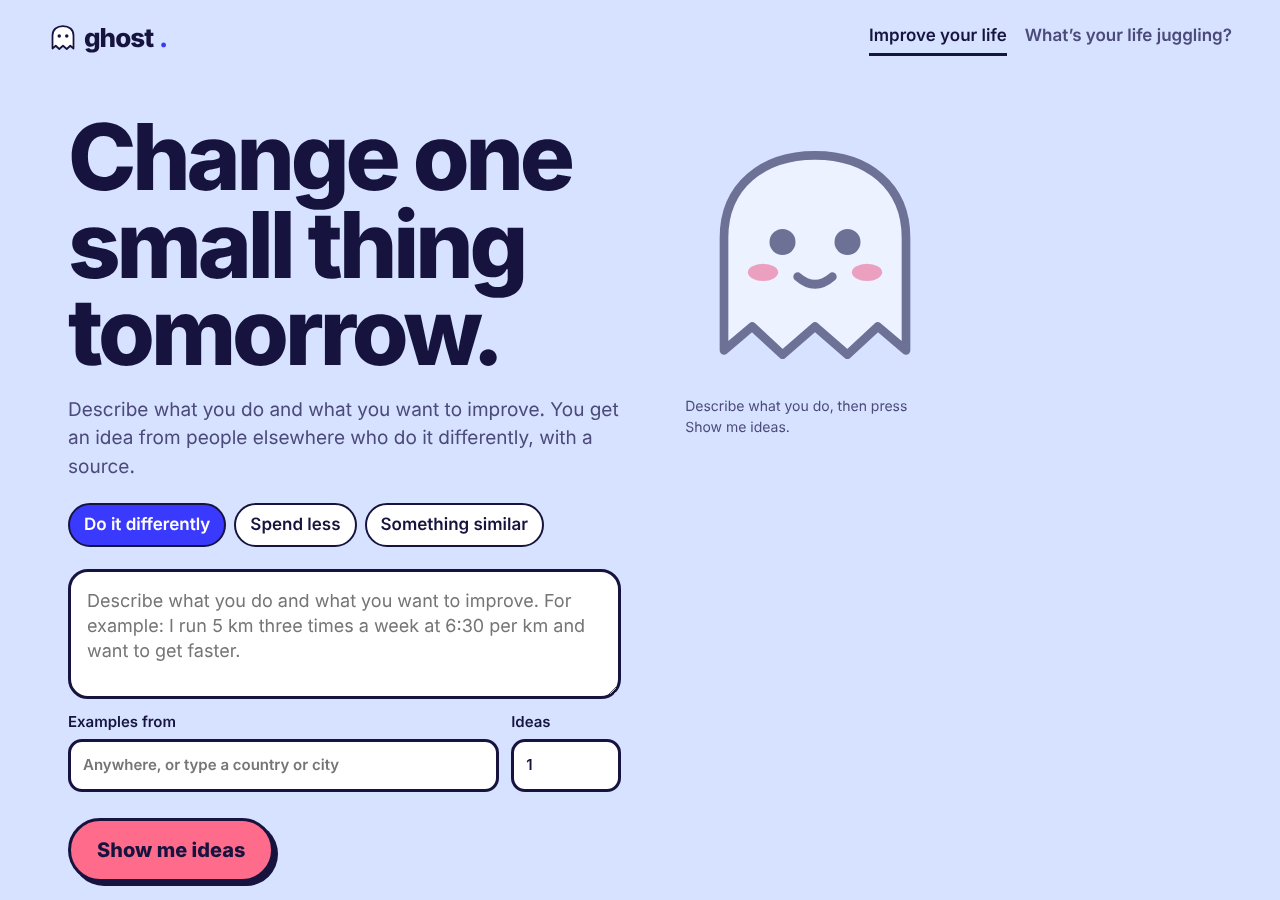
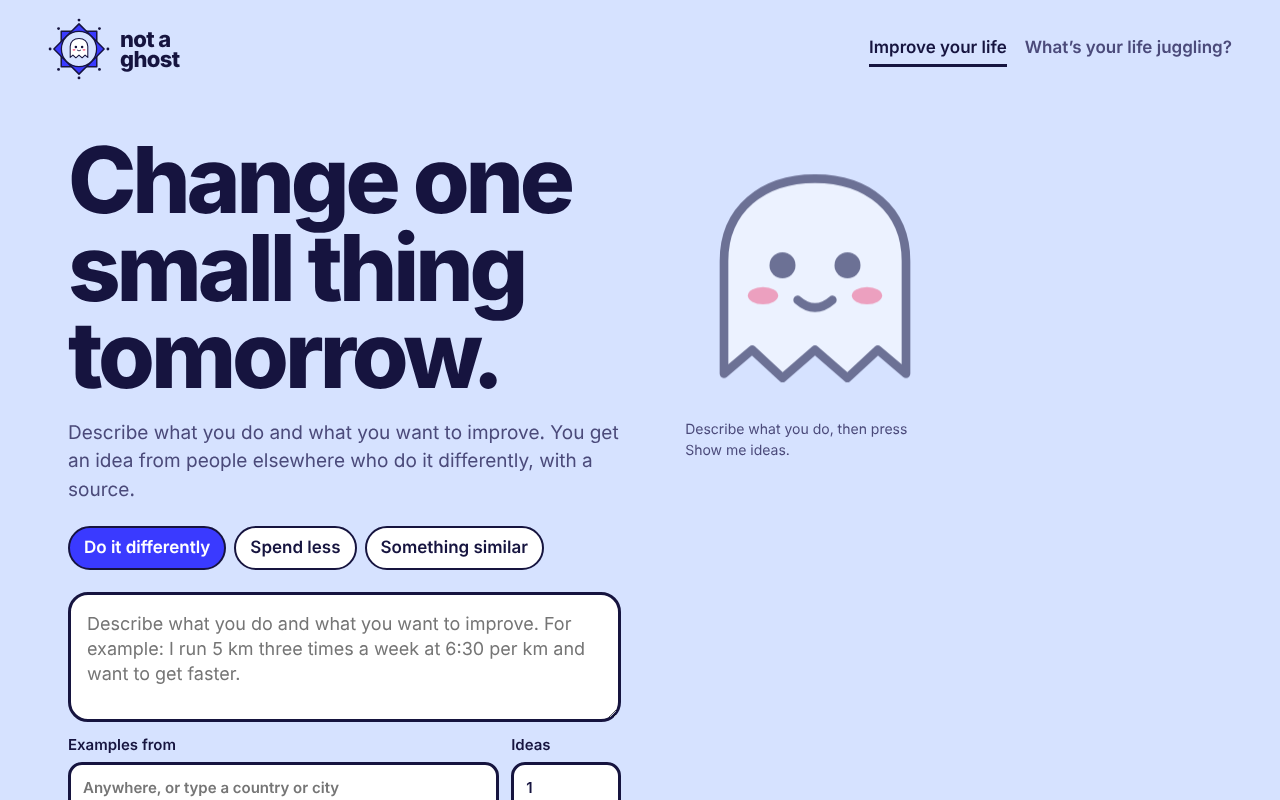
README: story first, new screenshots

diff --git a/README.md b/README.md
@@ -1,6 +1,20 @@
 # not a ghost
 
-A small local web app with two pages.
+## Why I built it
+
+I believe we judge what is possible by what our five senses show us, and that this keeps people in versions of themselves that no longer fit. Two people born at the same moment in different countries, from different backgrounds, can end up with very different options and very different feelings about themselves. I use quantum entanglement as an analogy for this: it is an inspiration, not a claim that physics explains it. The 2022 Nobel Prize in Physics honoured Aspect, Clauser and Zeilinger for experiments with entangled photons that showed the world behaves in ways everyday experience does not predict.
+
+I also believe a new pattern, repeated, becomes a new person, and that a new pattern starts when you see a way of living you had not seen. Michael Levin of Tufts University works on a related idea in biology: cells store pattern memories in bioelectric networks, and "the genome does not directly specify your shape".
+
+*not a ghost* is my attempt to make that practical. Describe something you do, for example running five times a week in Vietnam. The app finds how people in another country, such as Japan or Korea, do the same thing differently, with a checked source for every idea. You try one change and log your days. A second page, "What's your life juggling?", shows where your time goes and what type of person your days describe, so you can watch yourself change.
+
+Why the name? Many days we run on autopilot, like the ghost of yesterday repeating itself. Let's redefine ourselves: we are no longer a ghost of the past.
+
+Sources: [Nobel Prize in Physics 2022, press release](https://www.nobelprize.org/prizes/physics/2022/press-release/); [New Atlas on Michael Levin's work](https://newatlas.com/biology/levin-bioelectricity-cellular-intelligence-dna).
+
+## What it does
+
+A small web app with two pages.
 
 - **Improve your life.** Describe an activity and get sourced ideas to do it differently, spend less, or find something similar. Start a trial with a routine and an optional target, and log each day in a notebook.
 - **What's your life juggling?** Your logged days become balls in the air (bigger ball, more time), with a type bar that names your main type and your streak type.
